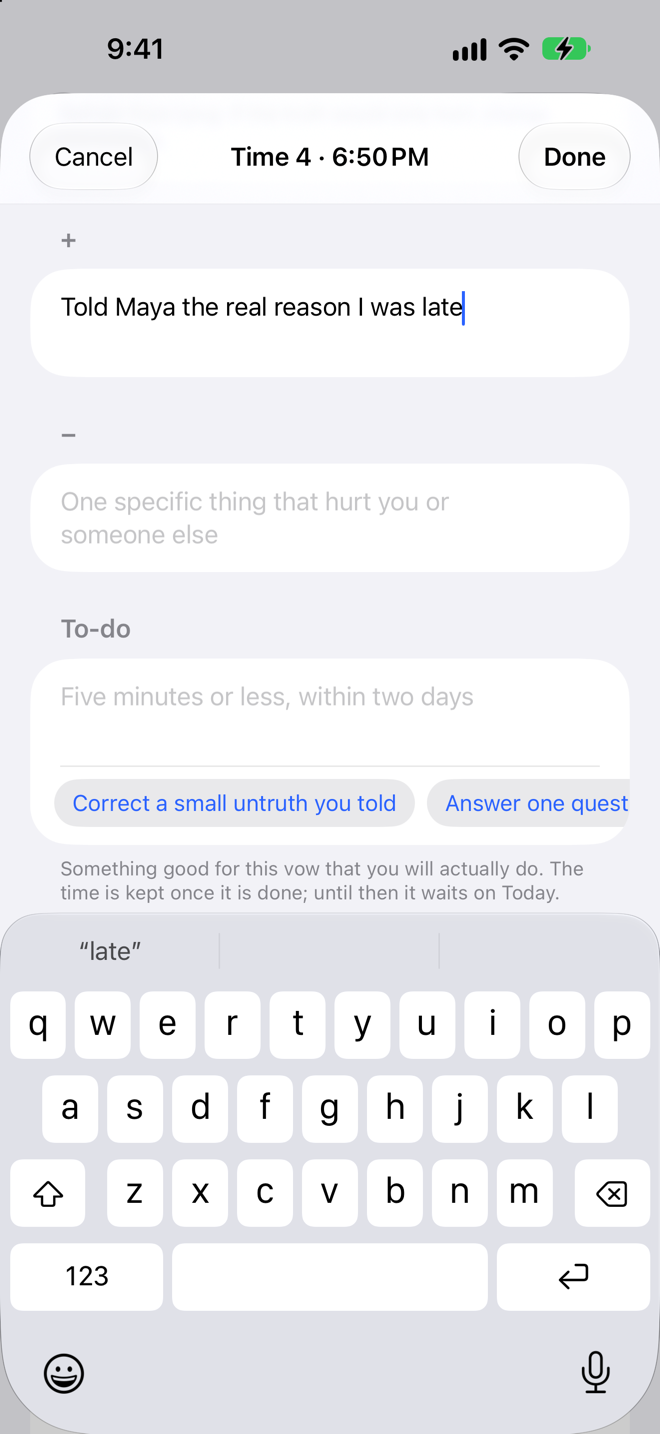
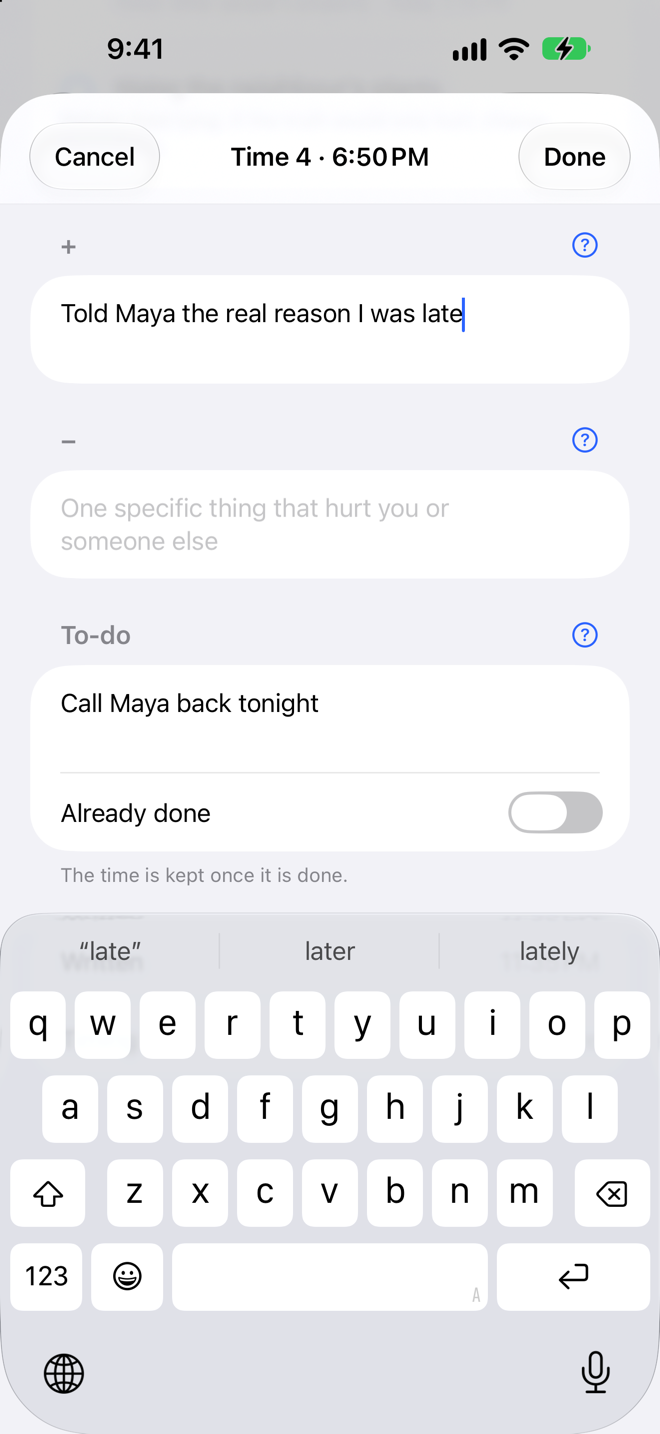
Seis 1.2: the evening of rejoicing, Import, the next vow
The evening is the day's to-dos, the best three and a note on meditation;
the worst three, the reminders and the lifetime vow are gone, and so are
the to-do ideas. A "?" on each part says what it is for. Import is named
wherever Export is, with a support answer for moving to a new phone, and
the support page says how to choose the next vow. New evening and to-do
screens from the 1.2 capture, halved like the others.

diff --git a/index.html b/index.html
@@ -46,12 +46,12 @@
     <div class="head">
       <span class="eyebrow">How it works</span>
       <h2>A minute, a few times a day.</h2>
-      <p>Start with the commitments that come built in, or write your own. Choose the times of day you want to stop for them. Six a day is the rhythm the practice was built on; fewer is a fine place to start. At each time, one commitment comes up and you write three short lines.</p>
+      <p>Start with the commitments that come built in, or write your own. Choose the times of day you want to stop for them. Six a day is the rhythm the practice was built on; fewer is a fine place to start. At each time, one commitment comes up and you write three short lines. A “?” beside each part of a page says what it is for.</p>
     </div>
     <div class="three">
       <div class="card"><span class="n">+ −</span><h3>What went well, what did not</h3><p>One specific moment today when you lived up to the commitment, and one when you fell short. Small and true beats grand and vague.</p></div>
-      <div class="card"><span class="n">○</span><h3>One small thing to do</h3><p>Something you will actually do about it: five minutes or less, within the next two days. Ideas come with every commitment, so you never start from a blank line.</p></div>
-      <div class="card"><span class="n">☾</span><h3>An evening look back</h3><p>The three best and three worst things of the whole day, a note on meditation, and anything you want to carry into tomorrow.</p></div>
+      <div class="card"><span class="n">○</span><h3>One small thing to do</h3><p>Something you will actually do about it: five minutes or less, within the next two days. It is yours to think of.</p></div>
+      <div class="card"><span class="n">☾</span><h3>An evening of rejoicing</h3><p>Before bed, at the time you choose, you close the day with the best three things of the whole day, and a note on meditation.</p></div>
     </div>
   </div>
 </section>
@@ -64,7 +64,7 @@
         <h2>Writing it down is half. Doing it is the rest.</h2>
         <p>Every time has three states: empty, written, kept. It is kept once the small thing you promised is done. Open to-dos wait at the top of Today for a couple of days. Tap the ring when one is done. Swipe to let one go. Nothing piles up.</p>
       </div>
-      <div class="phone"><img src="/assets/screens/2-todo.png" width="660" height="1434" alt="Writing a time: what went well, what did not, and the small thing to do, with three ideas suggested for the commitment" loading="lazy"></div>
+      <div class="phone"><img src="/assets/screens/2-todo.png" width="660" height="1434" alt="Writing a time: what went well, what did not, and the small thing to do, each with a question mark that says what it is for" loading="lazy"></div>
     </div>
 
     <div class="feature flip">
@@ -81,7 +81,7 @@
       <div class="copy">
         <span class="eyebrow">Your commitments</span>
         <h2>Built in, or your own.</h2>
-        <p>Seis comes with ten classic commitments, such as protecting life and being totally truthful, and more you can switch on. Or write your own, in a line: anything you have promised yourself about how you live. They come up one per time, in order, then around again, so each gets its turn every few days.</p>
+        <p>Seis comes with ten classic commitments, such as protecting life and being totally truthful, and more you can switch on. Or write your own, in a line: anything you have promised yourself about how you live. They come up one per time, in order, then around again, so each gets its turn every few days. Settings shows which comes next: pick another, or start over from the first.</p>
         <p>The Book shows every day as a row of dots <span class="dots" aria-hidden="true"><i style="background:#0E2358"></i><i style="background:#EE2C3C"></i><i style="background:#2A62FF"></i><i style="background:#D99500"></i><i style="background:#00A14F"></i><i style="background:#9B3FE8"></i></span>, one per time, filled as they are kept.</p>
       </div>
       <div class="phone"><img src="/assets/screens/5-book.png" width="660" height="1434" alt="The Book: a list of days, each with a row of coloured dots and a moon for the evening page" loading="lazy"></div>
@@ -91,9 +91,9 @@
       <div class="copy">
         <span class="eyebrow">The evening</span>
         <h2>Close the day with the best three.</h2>
-        <p>The one commitment you hold for life sits at the top. Then the day’s to-dos, each with its switch, the three best and three worst things that happened, a note on meditation, and the reminders you want waiting for you tomorrow.</p>
+        <p>Before bed, at the time you choose, you rejoice. The day’s to-dos are there, each with its switch; then the three best things that happened, and a note on meditation. A “?” on each part says what it is for.</p>
       </div>
-      <div class="phone"><img src="/assets/screens/4-evening.png" width="660" height="1434" alt="The Evening page: the lifelong commitment at the top, the day's to-dos, and the best three" loading="lazy"></div>
+      <div class="phone"><img src="/assets/screens/4-evening.png" width="660" height="1434" alt="The Evening page: the day's to-dos with their switches, the best three, and a note on meditation" loading="lazy"></div>
     </div>
   </div>
 </section>
@@ -108,7 +108,7 @@
     <div class="three">
       <div class="card"><h3>No account. No server.</h3><p>Everything is kept in the app’s own folder on your phone. There is nothing to sign in to, no analytics, no third-party code.</p></div>
       <div class="card"><h3>Lock it with Face ID.</h3><p>One switch in Settings. The app locks when it goes to the background, and the app switcher shows only the mark, never what you wrote.</p></div>
-      <div class="card"><h3>Quiet reminders.</h3><p>One per time, scheduled on your phone. A reminder names the commitment and how many to-dos are open; it never shows what you wrote. Export a copy of the whole book whenever you like.</p></div>
+      <div class="card"><h3>Quiet reminders.</h3><p>One per time, scheduled on your phone. A reminder names the commitment and how many to-dos are open; it never shows what you wrote. Export a copy of the whole book whenever you like; on a new phone, Import takes that copy back in.</p></div>
     </div>
     <p style="margin-top:28px"><a href="/privacy.html">Read the privacy policy</a></p>
   </div>

diff --git a/support.html b/support.html
@@ -10,7 +10,7 @@
 <link rel="stylesheet" href="https://fonts.googleapis.com/css2?family=Bricolage+Grotesque:opsz,wght@12..96,500..800&family=Instrument+Sans:wght@400;500;600&family=Geist+Mono:wght@400;500&display=swap">
 <link rel="stylesheet" href="/assets/site.css">
 <title>Support · Seis</title>
-<meta name="description" content="Help with Seis: where the book is stored, locking, export, late starts, vows, and how to reach us.">
+<meta name="description" content="Help with Seis: where the book is stored, locking, export and import, late starts, the evening, vows, and how to reach us.">
 <meta name="theme-color" content="#0E2358">
 </head>
 <body>
@@ -26,12 +26,15 @@
     <details><summary>What is Seis for?</summary><p>For keeping the commitments you have made about how you want to live. A few times a day, at times you choose, one of them comes up. You note one moment you lived up to it, one you did not, and one small thing you will do about it. When that thing is done, the time is kept.</p></details>
     <details><summary>Where is my book stored?</summary><p>In the app’s own folder on your phone. Nothing is uploaded, there is no account, and other apps cannot read it. It is included in your iPhone backup like any other app’s data.</p></details>
     <details><summary>How do I get a copy of my book?</summary><p>Settings › Privacy › Export a copy of the book. The share sheet offers one zip file with every day and your settings; save it to Files, AirDrop it to a Mac, or send it anywhere you like.</p></details>
+    <details><summary>How do I move my book to a new phone?</summary><p>Export a copy on the old phone, then on the new one go to Settings › Privacy › Import a copy of the book… and pick the zip file (or the folder Files makes when it opens one). Seis says how many days are in it and offers to add the days this phone does not have yet, or to replace the book with the copy. On a phone with nothing written yet, it simply brings the copy in. Import works on the same phone too.</p></details>
     <details><summary>How do I lock the book?</summary><p>Settings › Privacy › Lock with Face ID. The app asks once, after the first time you write. With the lock on, the app locks whenever it goes to the background and asks for Face ID, Touch ID or your passcode when it comes back.</p></details>
     <details><summary>I woke up late and the morning times had passed.</summary><p>Today shows a “Late start?” card when two or more times have passed with nothing written. Tap “Start at …” and your times begin from now, your usual spacing apart, with the last one by 11:00 PM. Any day can be begun from a chosen time with the ••• button on Today. In the Shortcuts app, the action “Start Today’s Book Now” can run from an automation, for example when your Wake Up alarm is stopped.</p></details>
-    <details><summary>What do I write at each time?</summary><p>Three short lines. The plus: one specific moment when you lived up to the commitment. The minus: one when you fell short. The to-do: one small thing you will do about it, five minutes or less, within the next day or two. A time is written when all three are down, and kept once the to-do is done. Open to-dos wait at the top of Today; tap the ring when one is done, or swipe it to let it go.</p></details>
+    <details><summary>What do I write at each time?</summary><p>Three short lines. The plus: one specific moment when you lived up to the commitment. The minus: one when you fell short. The to-do: one small thing you will do about it, five minutes or less, within the next day or two. A time is written when all three are down, and kept once the to-do is done. Open to-dos wait at the top of Today; tap the ring when one is done, or swipe it to let it go. The “?” beside the plus, the minus and the to-do says what each one is for.</p></details>
+    <details><summary>What is the evening page?</summary><p>At the time you choose before bed, you close the day by rejoicing. The evening page shows the day’s to-dos, each with its switch, then the best three things of the whole day, and a note on meditation. A “?” on each part says what it is for.</p></details>
     <details><summary>Which commitments are in the app?</summary><p>Ten classic ones are on from the start, such as protecting life and being totally truthful, with twelve more you can switch on. They come up one per time, in order, then around again. A larger set, the Bodhisattva vows, is there for anyone who has taken them, and you can add commitments of your own in Settings › Vows. Tantric vows are not in the app.</p></details>
+    <details><summary>Can I choose which commitment comes up next?</summary><p>Yes. Settings › Vows shows the next one. Tap it to choose another from those in rotation, or tap “Start over from the first”. It goes to the next time not yet written; times already written keep theirs, and tomorrow carries on from there.</p></details>
     <details><summary>How many times a day, and when?</summary><p>Settings › Times. Six a day is the rhythm the practice was built on; you can set fewer and go up later. Changes apply to the times you have not written yet.</p></details>
-    <details><summary>Can I use Seis on two devices?</summary><p>Not yet. Version 1.0 is for iPhone and keeps the book on that phone only. Syncing through your own iCloud account, with no sign-in, is planned for a later version.</p></details>
+    <details><summary>Can I use Seis on two devices?</summary><p>Not yet. Seis is for iPhone and keeps the book on that phone only; to move it to a new phone, export a copy and import it there. Syncing through your own iCloud account, with no sign-in, is planned for a later version.</p></details>
     <details><summary>Is there a Spanish version?</summary><p>Not yet; English first, Spanish next.</p></details>
     <details><summary>Is Seis connected to a teacher or an organization?</summary><p>No. Seis is made independently by someone who keeps the practice, and is not affiliated with any teacher or organization.</p></details>
   </div>

diff --git a/privacy.html b/privacy.html
@@ -20,7 +20,7 @@
 </div></header>
 <main class="doc"><div class="in">
   <h1>Privacy</h1>
-  <p class="muted">Last updated November 4, 2026</p>
+  <p class="muted">Last updated November 14, 2026</p>
 
   <h2>What the app collects</h2>
   <p>Nothing. Seis has no account, no server, no analytics and no third-party code. Nothing you write leaves your phone unless you move it yourself.</p>
@@ -30,6 +30,7 @@
     <li>Everything you write is stored in the app’s own folder on your device, which other apps cannot read and which does not appear in the Files app.</li>
     <li>If you have iCloud Backup or Finder backups turned on, that folder is included in your device backup like any other app’s data. The app itself does not sync.</li>
     <li><strong>Export</strong> in Settings gives you a copy of the whole book as one file, to keep wherever you choose.</li>
+    <li><strong>Import</strong> in Settings takes such a copy back in, on the same phone or a new one. It reads only the file you pick, and nothing is uploaded.</li>
     <li>Deleting the app deletes the book. Export first if you want to keep it.</li>
   </ul>
 
